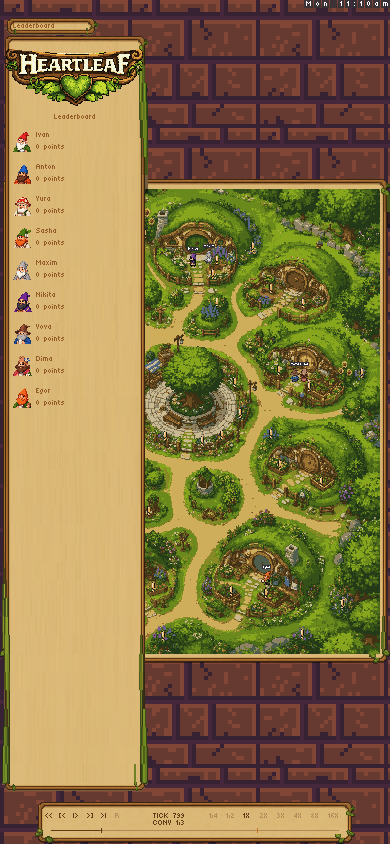
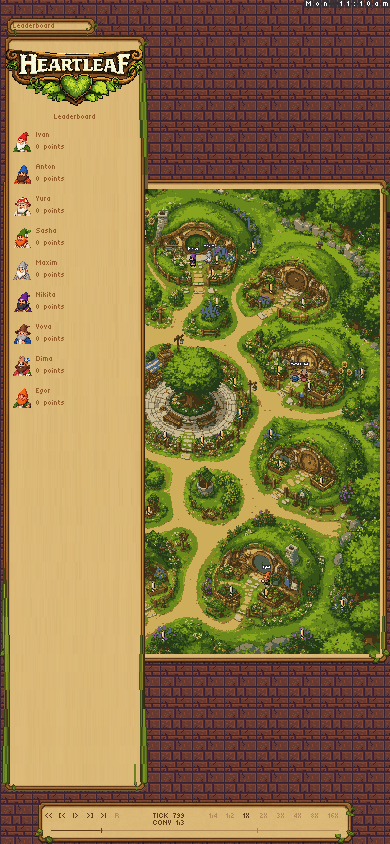
Center the village overview and reduce brick pattern scale

diff --git a/docs/viewer-stability.md b/docs/viewer-stability.md
@@ -6,7 +6,9 @@ resources, replay format, and game rules.
 - The supplied pixel-brick tile fills the surround. Circular room interiors retain
   light parchment (`#d5b072`). The map uses the existing
   pixel-art wooden and leafy border. The frame masks overflow and expands with the camera during zoom.
-- The full-village overview fills the window height, beside the left leaderboard. Conversation shots
+- The full-village overview fills the window height and is centered on the whole
+  viewer, with the leaderboard on the left. Cramped widths keep the map clear
+  of the leaderboard. Conversation shots
   hide the leaderboard and fill the entire window, without stretching the map.
   Crops stay inside the village art at map edges and in ultrawide windows.
   In narrow portrait windows, the overview fits the width to keep the whole
@@ -76,8 +78,9 @@ additional click animation. The input-order and playback-rate fixes below
 repair the existing controls without redesigning them.
 
 `data/viewer-bricks.png` is the tile supplied by Alessandro on September 9.
-It is reused unchanged, sampled at half size and tiled behind the framed game
-and parchment leaderboard. The title still uses the existing Heartleaf logo.
+The source asset is unchanged. It is sampled at one-eighth size and tiled behind
+the framed game and parchment leaderboard: each brick is one-quarter of its
+previous displayed width and height. The title still uses the existing Heartleaf logo.
 
 ### Button diagnosis and repairs
 
